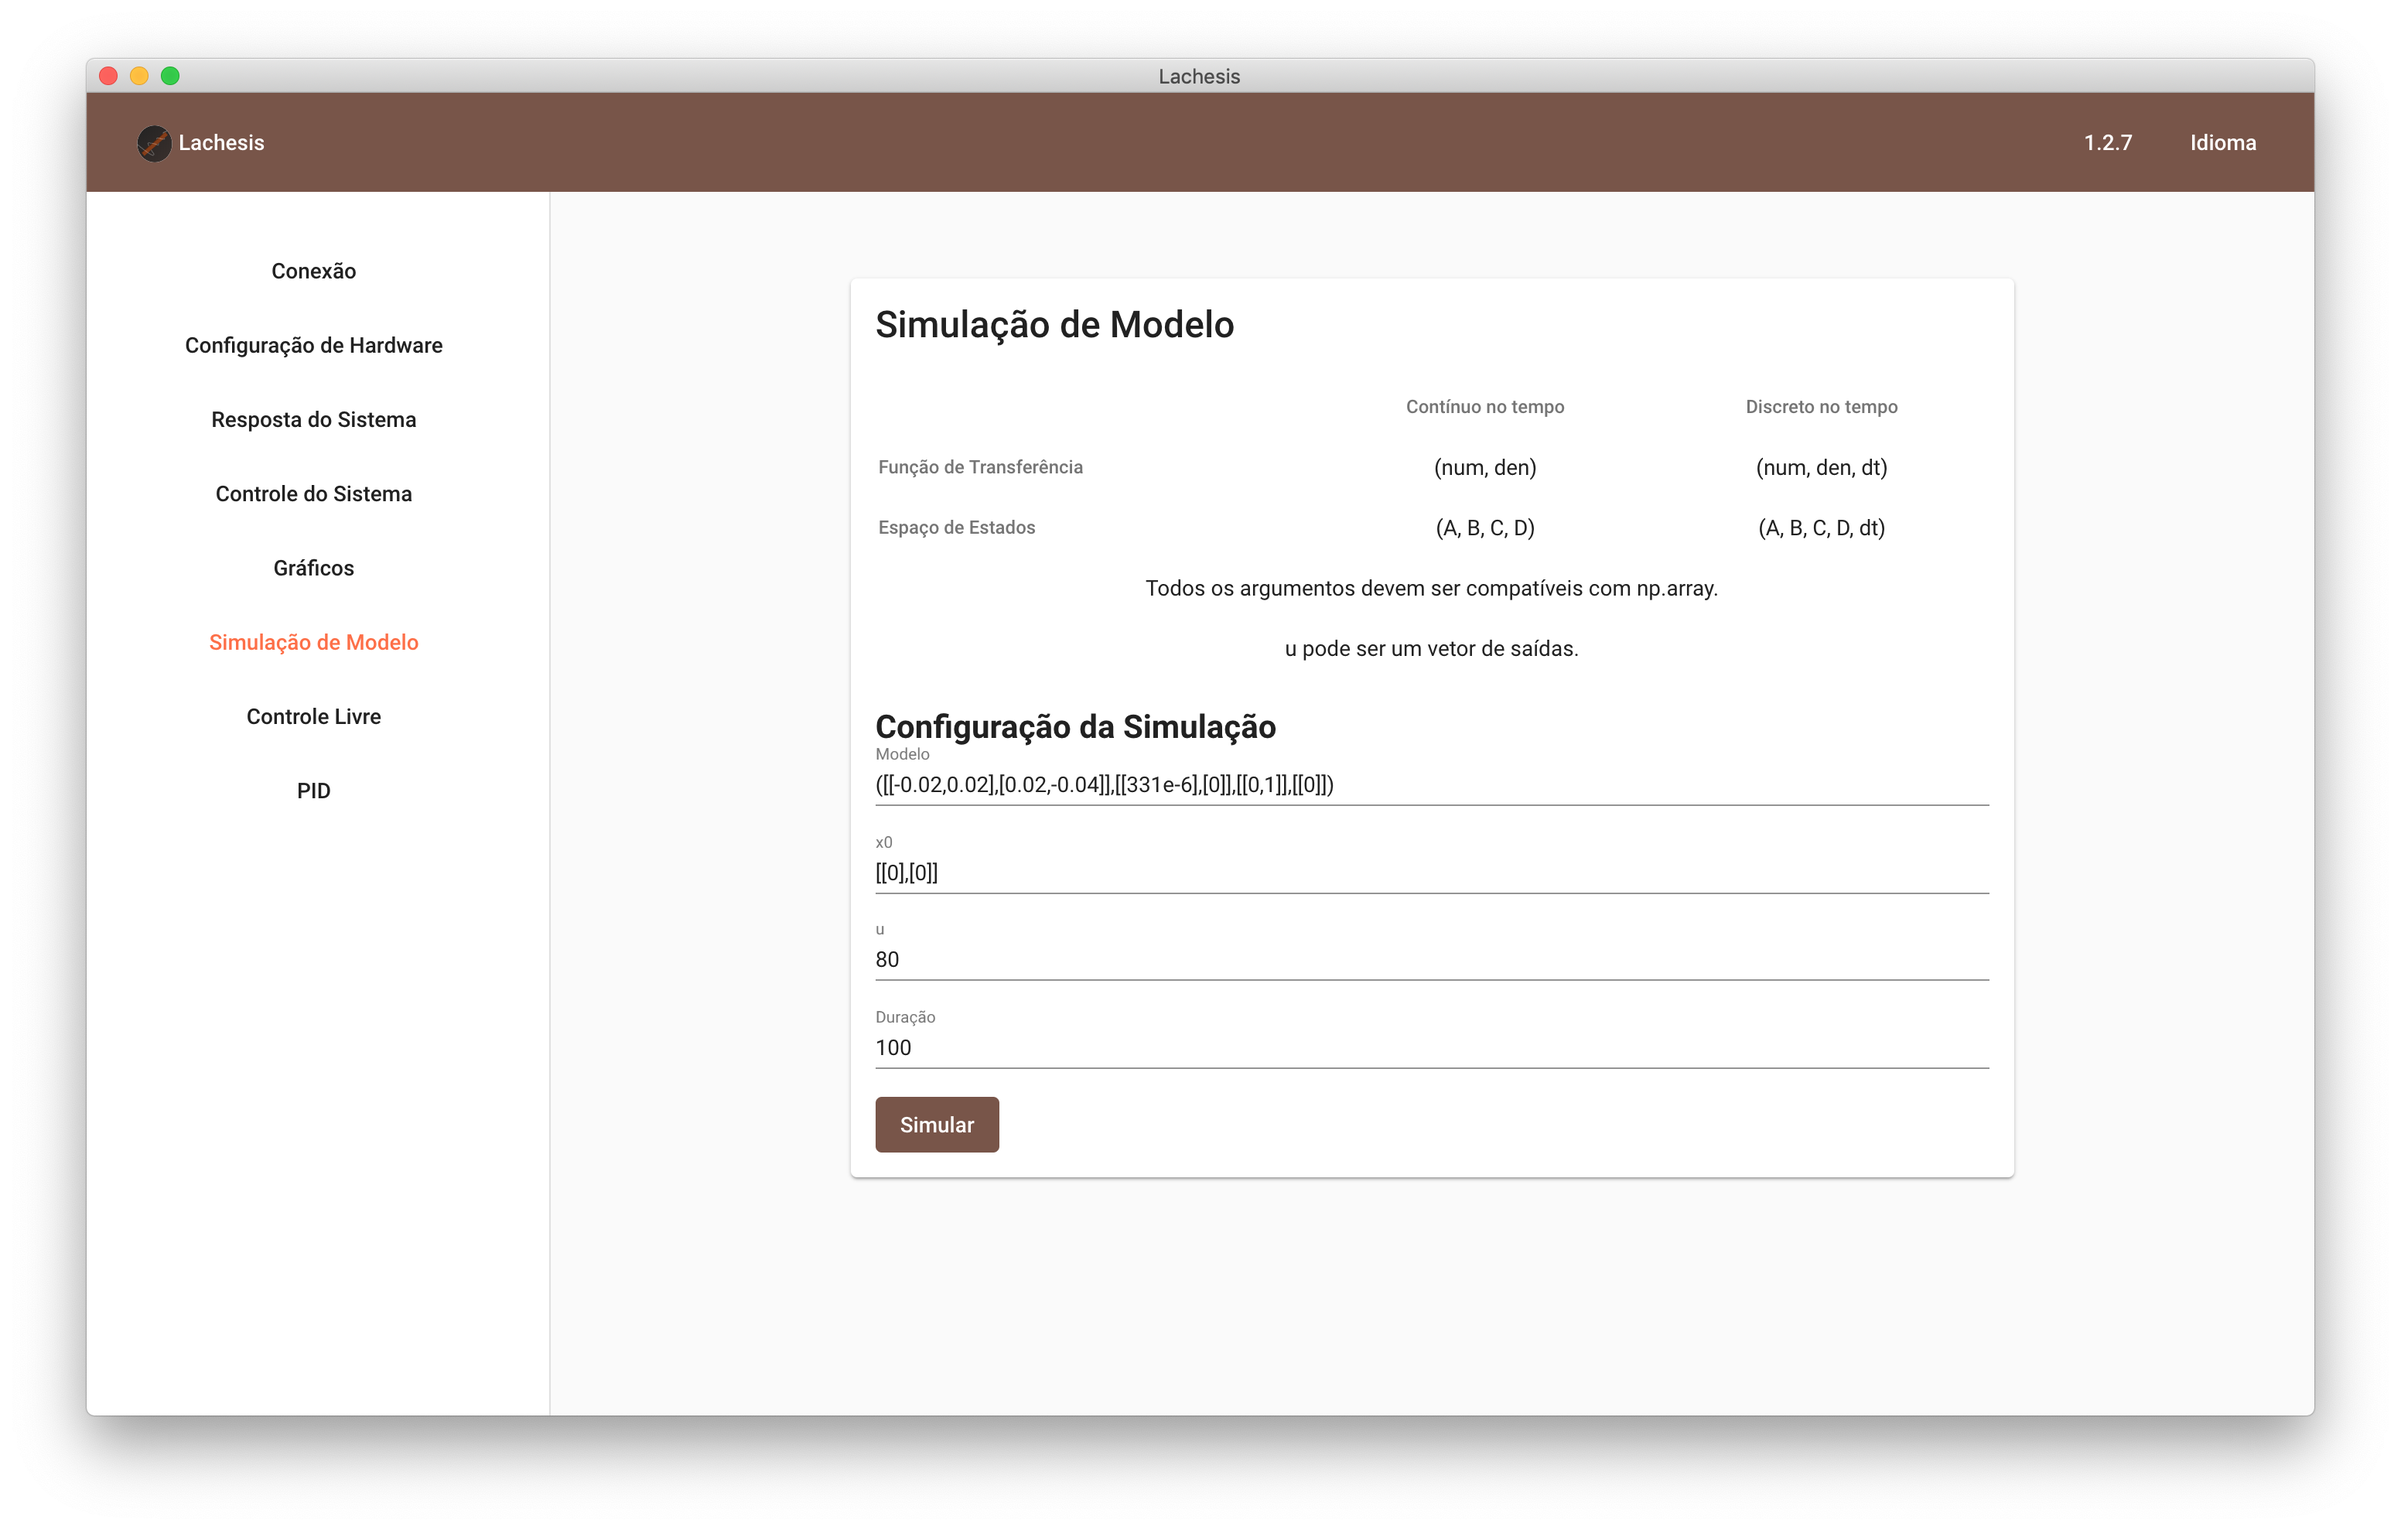
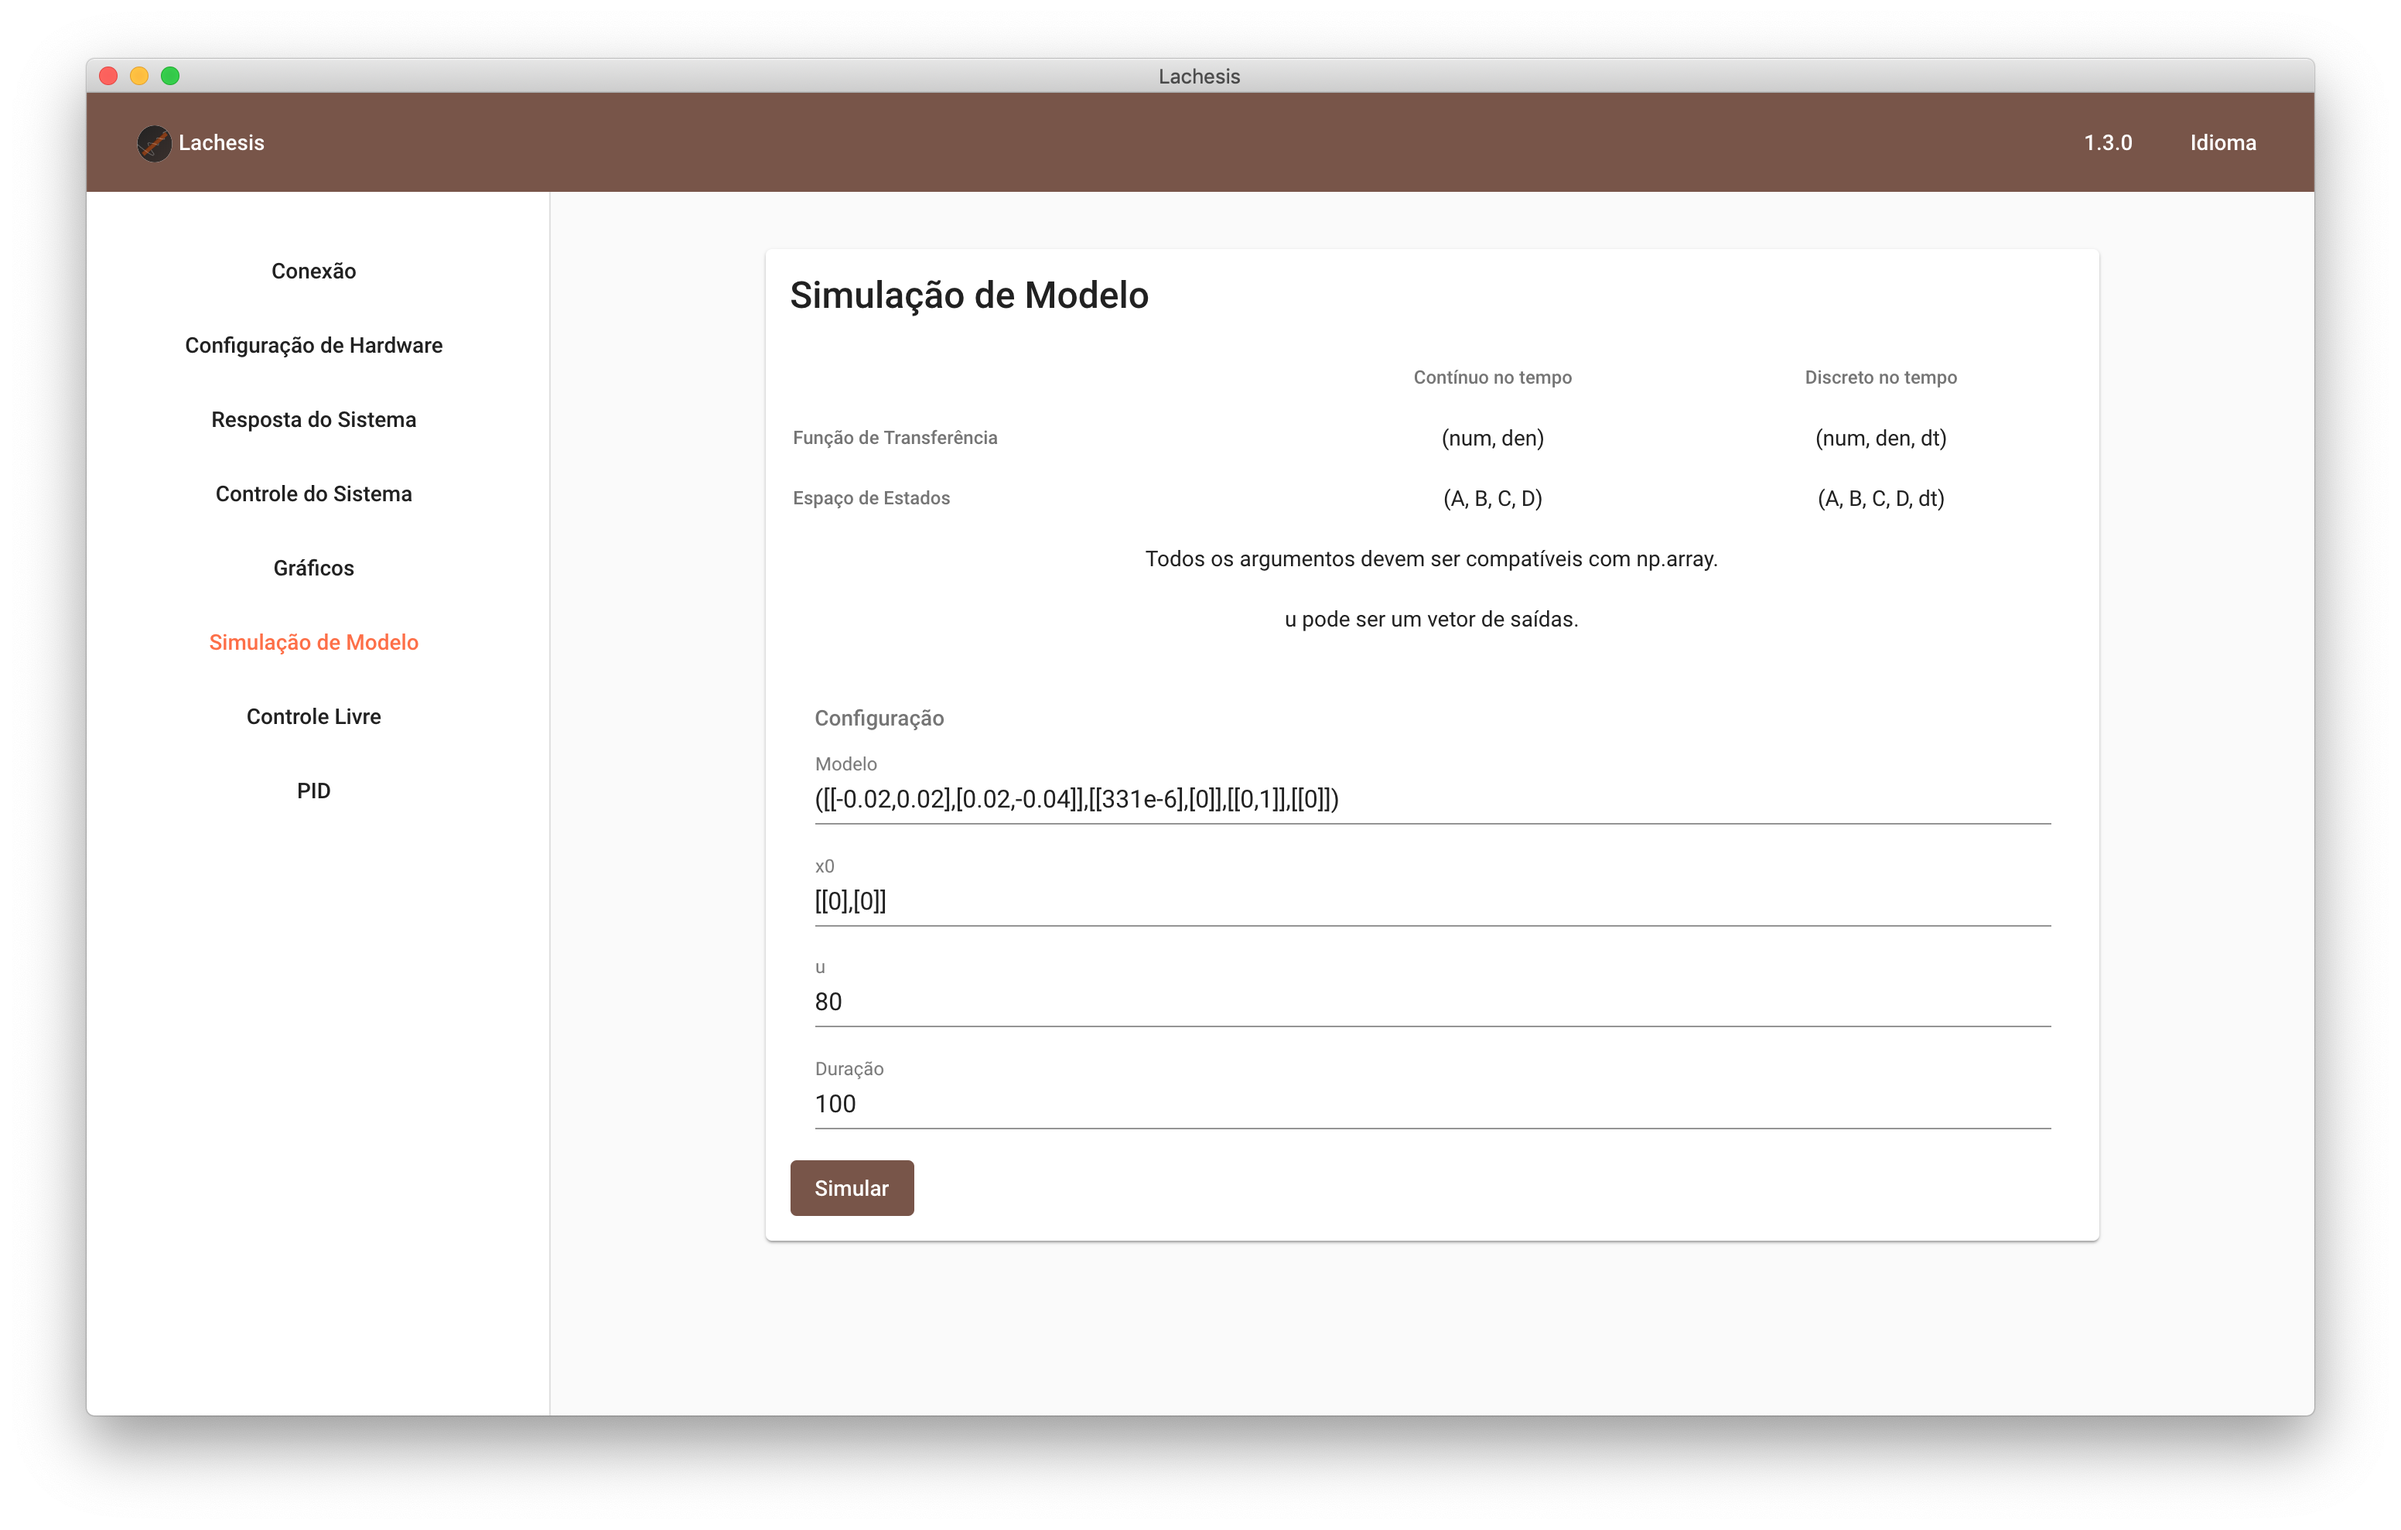
Novas imagens.

diff --git a/chapter6.tex b/chapter6.tex
@@ -18,12 +18,12 @@ podemos ver a listagem de gráficos com as opções pertinentes. O botão
     \label{fig:graphs1}
 \end{figure}
 
-Ao clicar em \textit{Exibir}, a seção \textit{Gráficos} será exibida. A seção
-\textit{Exportar} também aparecerá, mas apenas caso o teste não esteja em
-execução. A seção \textit{Exportar} é retrátil, se expandindo ao clicar no
-título ou botão no lado direito. Na Figura~\ref{fig:graphs2} pode-se ver a seção
-expandida. No topo pode-se selecionar o formato dos dados exportados:
-\href{https://www.json.org/}{JSON},
+Ao clicar em \textit{Exibir} (\img{imgs/show_chart}), a seção \textit{Gráficos}
+será exibida. A seção \textit{Exportar} também aparecerá, mas apenas caso o
+teste não esteja em execução. A seção \textit{Exportar} é retrátil, se
+expandindo ao clicar no título ou botão no lado direito. Na
+Figura~\ref{fig:graphs2} pode-se ver a seção expandida. No topo pode-se
+selecionar o formato dos dados exportados: \href{https://www.json.org/}{JSON},
 \href{https://pt.wikipedia.org/wiki/Comma-separated_values}{CSV} ou
 \href{https://www.mathworks.com/help/matlab/import_export/supported-file-formats.html}{MAT}.
 
@@ -64,11 +64,20 @@ de cada curva na mesma cor da linha utilizada no gráfico, além do valor no pon
 atual. O valor eixo \(x\), que sempre representa o tempo em segundos, é exibido
 antes de todas as variáveis.
 
+\begin{figure}[ht!]
+    \centering
+    \includegraphics[width=0.9\textwidth]{imgs/graphs4}
+    \caption[Teste em execução]{Teste em execução}%
+    \label{fig:graphs4}
+\end{figure}
+
 Quando um teste está em execução, ele é marcado com o símbolo
-\includegraphics[height=\fontcharht\font`\B]{imgs/running}. Os gráficos de um
-teste em execução são atualizados a cada segundo. Essa atualização requer
-considerável processamento pelo aplicativo \textbf{moirai}, sendo recomendado
-não manter o módulo \textit{Gráficos} aberto durante a execução de um teste em
-um computador com baixo poder de processamento. A lista de gráficos disponíveis
-também é atualizada a cada segundo, fazendo com que um teste em execução não
-seja listado imediatamente, mas após alguns segundos.
+\img{imgs/running}, como pode ser visto na Figura~\ref{fig:graphs4}. O botão
+\textit{Remover} (\img{imgs/remove}) é substituído pelo botão \textit{Parar}
+(\img{imgs/stop}). Os gráficos de um teste em execução são atualizados a cada
+segundo. Essa atualização requer considerável processamento pelo aplicativo
+\textbf{moirai}, sendo recomendado não manter o módulo \textit{Gráficos} aberto
+durante a execução de um teste em um computador com baixo poder de
+processamento. A lista de gráficos disponíveis também é atualizada a cada
+segundo, fazendo com que um teste em execução não seja listado imediatamente,
+mas após alguns segundos.

diff --git a/chapter2.tex b/chapter2.tex
@@ -13,12 +13,12 @@ escutando, esperando por conexões.
 
 Para determinar o \textit{IP} de uma máquina pode-se usar o comando
 \mintinline{bash}{ifconfig} no \textit{Linux} ou \textit{macOS} e
-\mintinline{bash}{ipconfig} no \textit{Windows}. Caso o computador esteja
-ligado a mais de uma rede, como \textit{WiFi} e \textit{Ethernet} (rede
-cabeada), deve-se prestar atenção a qual endereço pertence a qual rede físisca.
-Os endereços especiais \textit{localhost} e \textit{127.0.0.1} apontam para a
-própria máquina, assim , se usado no \textbf{Lachesis}, ele tentará encontrar o
-\textbf{moirai} na mesma máquina em que ele se encontra instalado.
+\mintinline{bash}{ipconfig} no \textit{Windows}. Caso o computador esteja ligado
+a mais de uma rede, como \textit{WiFi} e \textit{Ethernet} (rede cabeada),
+deve-se prestar atenção a qual endereço pertence a qual rede físisca. Os
+endereços especiais \textit{localhost} e \textit{127.0.0.1} apontam para a
+própria máquina, assim, quando usado no \textbf{Lachesis}, ele tentará encontrar
+o \textbf{moirai} na mesma máquina em que ele se encontra instalado.
 
 É necessário especificar a porta de conexão, mas essa será sempre \textit{5000},
 a não ser que algum \textit{proxy} ou redirecionamento de porta seja empregado.
@@ -46,9 +46,9 @@ causado por endereço incorreto ou erro na rede. Verifique que o endereço está
 certo e que seu computador está de fato na mesma rede que o computador contendo
 o \textbf{moirai}. Certifique-se também que o \textbf{moirai} está em execução.
 Caso o erro se refira a versão do \textbf{moirai}, esse deve ser atualizado.
-Para isso basta executar o comando \mintinline{bash}{pip3 install moirai
---upgrade} em um terminal na máquina onde o \textbf{moirai} se encontra
-instalado. Não se esqueça de reiniciar o aplicativo após a atualização.
+Para isso basta executar o comando \mintinline{bash}{pip3 install --upgrade
+moirai} em um terminal na máquina onde o \textbf{moirai} se encontra instalado.
+Não se esqueça de reiniciar o aplicativo após a atualização.
 
 Uma vez autenticado o módulo de conexão se altera, bem como a barra leteral,
 como pode ser visto na Figura~\ref{fig:connection-screen}. A barra lateral exibe

diff --git a/chapter3.tex b/chapter3.tex
@@ -25,11 +25,12 @@ utilizando o seguinte comando:
 A variável de ambiente \mintinline{bash}{AHIO_PATH} funciona como a variável
 \mintinline{bash}{PATH} dos sistemas \textit{UNIX}.
 
-Os \textit{drivers} padrão são: \textit{snap7, Arduino, GenericTCPIO, Raspberry}
-ou \textit{Dummy}. Nesse módulo, representado na Figura~\ref{fig:hardware1},
-pode-se configurar o \textit{driver} desejado. Primeiramente deve-se selecionar
-o \textit{driver} na lista. Duas seções serão abertas ao selecionar um
-\textit{driver}: \textit{Configuração} e \textit{Portas}.
+Os \textit{drivers} padrão são: \textit{snap7}, \textit{Arduino},
+\textit{GenericTCPIO}, \textit{Raspberry}, \textit{SISO Model} e \textit{Dummy}.
+Nesse módulo, representado na Figura~\ref{fig:hardware1}, pode-se configurar o
+\textit{driver} desejado. Primeiramente deve-se selecionar o \textit{driver} na
+lista. Duas seções serão abertas ao selecionar um \textit{driver}:
+\textit{Configuração} e \textit{Portas}.
 
 \begin{figure}[ht!]
     \centering
@@ -54,7 +55,8 @@ CLP\@.
 A seção \textit{Portas} (Figura~\ref{fig:hardware3}) permite a configuração das
 entradas e saídas do sistema. Ao clicar em \textit{Adicionar} uma nova entrada
 em branco é inserida. Ela contém as seguintes colunas: \textit{Nome da porta},
-\textit{Alias da porta}, \textit{Tipo de porta}, \textit{Valor desligado}.
+\textit{Alias da porta}, \textit{Tipo de porta}, \textit{Valor desligado}. O
+botão \img{imgs/remove} remove a entrada.
 
 \begin{figure}[ht!]
     \centering

diff --git a/chapter4.tex b/chapter4.tex
@@ -16,16 +16,16 @@ configurados, bem como as opções de gerenciar tais testes.
     \label{fig:system-response1}
 \end{figure}
 
-O botão \textit{Clonar} cria uma cópia do teste. Essa opção é útil para criar
-vários testes que possuem apenas pequenas diferenças entre si. O botão
-\textit{Executar} inicia o teste e navega para o módulo \textit{Gráficos}. O
-botão \textit{Parar} irá interromper \textbf{qualquer} teste que esteja em
-execução, não importa o tipo.
+O botão \textit{Clonar} (\img{imgs/content_copy}) cria uma cópia do teste. Essa
+opção é útil para criar vários testes que possuem apenas pequenas diferenças
+entre si. O botão \textit{Executar} (\img{imgs/launch}) inicia o teste e navega
+para o módulo \textit{Gráficos}. O botão \textit{Parar} irá interromper
+\textbf{qualquer} teste que esteja em execução, não importa o tipo.
 
 Ao adicionar ou editar um teste é possível criar um sinal facilmente, apenas
 preenchendo um formulário. Várias formas de onda estão disponíveis para
 preenchimento rápido. Cada opção será detalhada nas seções a seguir. Algumas
-configurações são comuns e serão tratadas na seção~\ref{sec:step}.
+configurações são comuns e serão tratadas na Seção~\ref{sec:step}.
 
 \section{Degrau}%
 \label{sec:step}

diff --git a/chapter5.tex b/chapter5.tex
@@ -23,13 +23,13 @@ controladores salvos. As opções são as mesmas presentes no módulo
     \label{fig:control1}
 \end{figure}
 
-Ao clicar em \textit{Adicionar} ou em \textit{Editar}, uma nova interface
-(Figura~\ref{fig:control2}) se abre permitindo a edição do teste. No topo temos
-os campos \textit{Nome} --- assim como em \textit{Resposta do Sistema} e sendo
-pertinente as mesmas recomendações --- \textit{Tempo de amostragem} e
-\textit{Tempo total de execução}, que é o tempo máximo que o teste será
-executado. O mesmo pode ser interrompido precocemente por motivos de erro ou
-intertravamento.
+Ao clicar em \textit{Adicionar} ou em \textit{Editar} (\img{imgs/edit}), uma
+nova interface (Figura~\ref{fig:control2}) se abre permitindo a edição do
+controlador. No topo temos os campos \textit{Nome} --- assim como em
+\textit{Resposta do Sistema} e sendo pertinente as mesmas recomendações ---
+\textit{Tempo de amostragem} e \textit{Tempo total de execução}, que é o tempo
+máximo que o teste será executado. O mesmo pode ser interrompido precocemente
+por motivos de erro ou intertravamento.
 
 \begin{figure}[ht!]
     \centering

diff --git a/document.tex b/document.tex
@@ -6,7 +6,7 @@
 \input{cefetpagestyle.tex}
 \selectlanguage{brazil}
 
-\def\projeto{\large{Lachesis 1.2.8\\Moirai 1.2.9}}
+\def\projeto{\large{Lachesis 1.3.0\\Moirai 1.3.0}}
 
 \titulo{\huge{Manual da Plataforma Para Controle de Processos}\\~\\\tiny{\projeto}}
 \autor{Samuel Oliveira Milagre\\Márcio Ribeiro de Oliveira Filho\\Álan Crístoffer e Sousa}

diff --git a/meta.tex b/meta.tex
@@ -84,3 +84,13 @@
 % ccode environment for highlight
 \newminted{c}
 {autogobble,linenos,fontseries=Consolas,fontsize=\scriptsize,frame=lines}
+
+\newcommand*{\img}[1]{%
+  \raisebox{-.3\baselineskip}{%
+    \includegraphics[
+      height=\baselineskip,
+      width=\baselineskip,
+      keepaspectratio,
+    ]{#1}%
+  }%
+}
